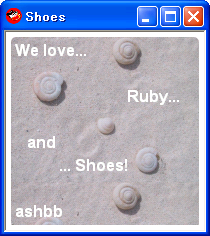
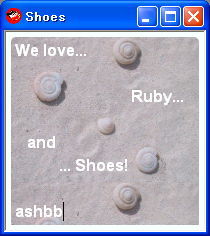
revised gallery 62 (added a cursor and a bit refactoring)

diff --git a/src/gallery2.rb b/src/gallery2.rb
@@ -2,8 +2,9 @@
 Shoes.app :width => 200, :height => 200 do
   background mintcream, :width => 1.0, :height => 1.0
   @s = stack :margin => 5, :width => 1.0, :height => 1.0 do
-    background 'shell.png', :curve => 5
+    background '../images/shell.png', :curve => 5
     @line = para '', :stroke => white, :weight => 'bold'
+    @line.cursor = -1
   end
   
   keypress do |k|
@@ -14,8 +15,6 @@ Shoes.app :width => 200, :height => 200 do
         @line.text = @line.text[0..-2]
       else
     end
-    
-    @line.text = @line.text[0..-2] + "\n" + k  if @line.text.to_a.last.deltet(' ').length * 10 > @s.width
   end
 end
 
